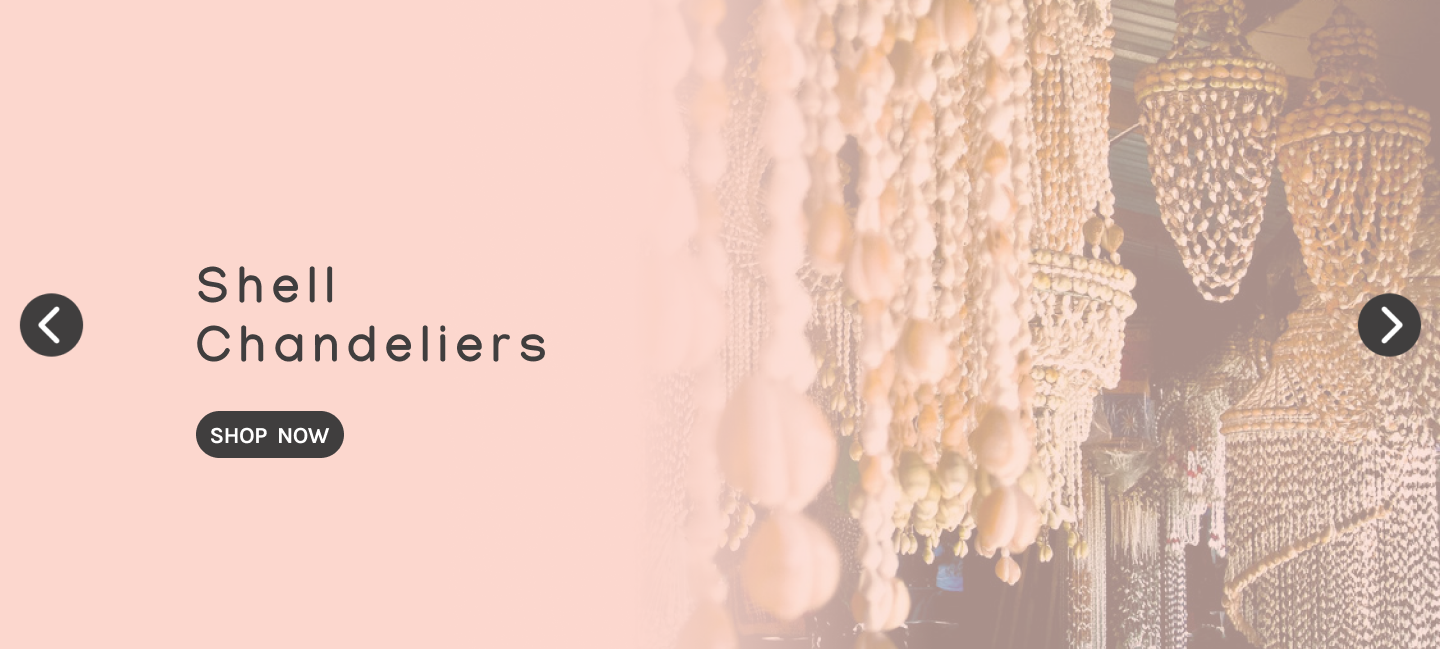
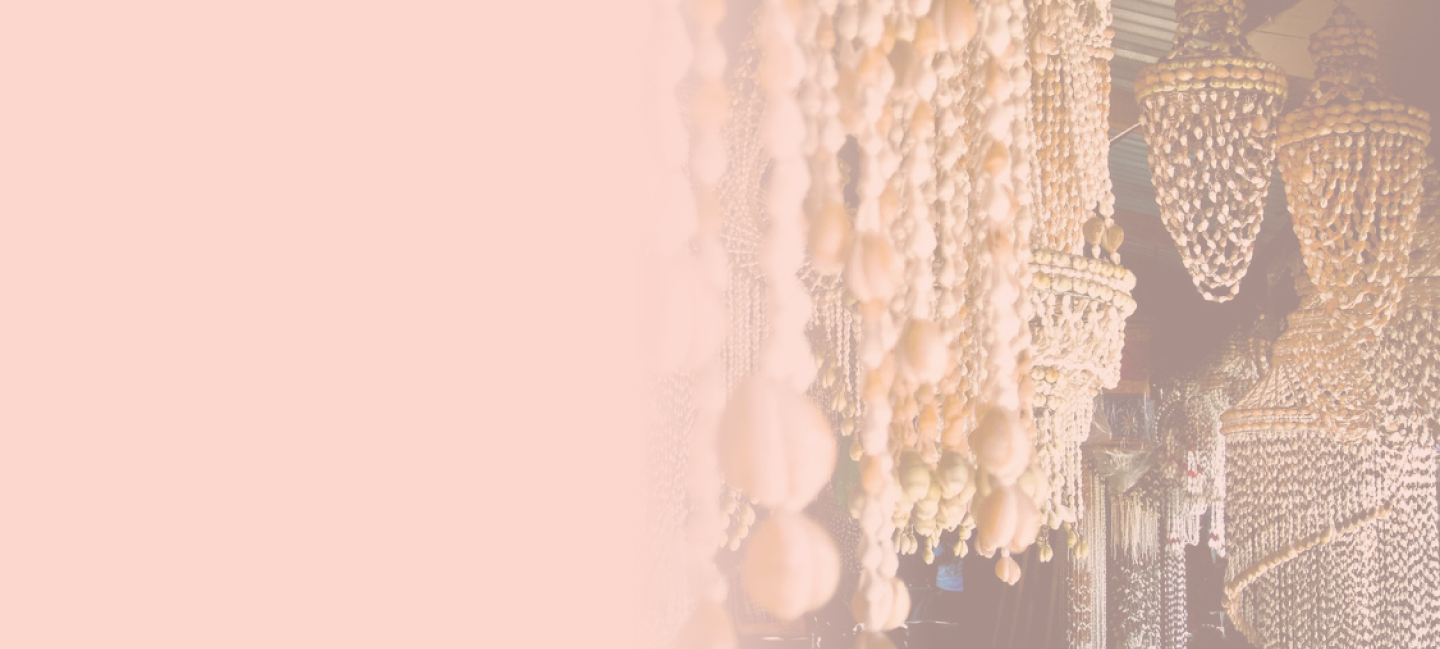
FrontEnd: Picture in home page

diff --git a/resources/js/Pages/Dashboard.jsx b/resources/js/Pages/Dashboard.jsx
@@ -21,6 +21,18 @@ export default function Dashboard({ auth }) {
         <AuthenticatedLayout user={auth.user}>
             <Head title="Home" />
             <div className="-mt-[5rem] h-screen w-full overflow-hidden -z-20 flex items-center justify-center ">
+                <div className=" absolute left-[10rem]  flex items-center h-full">
+                    <div className="flex-col text-8xl flex text-[#403E3E]">
+                        <h1>Shell </h1>
+                        <h1> Chandeliers</h1>
+                        <Link
+                            href={route("shop")}
+                            className="text-3xl mt-4 hover:bg-slate-800 duration-300 rounded-full px-3 capitalize font-bold py-2 bg-[#403E3E] w-fit text-white"
+                        >
+                            Shop now
+                        </Link>
+                    </div>
+                </div>
                 <img
                     className=" w-full h-full object-cover"
                     src={frame_1}
